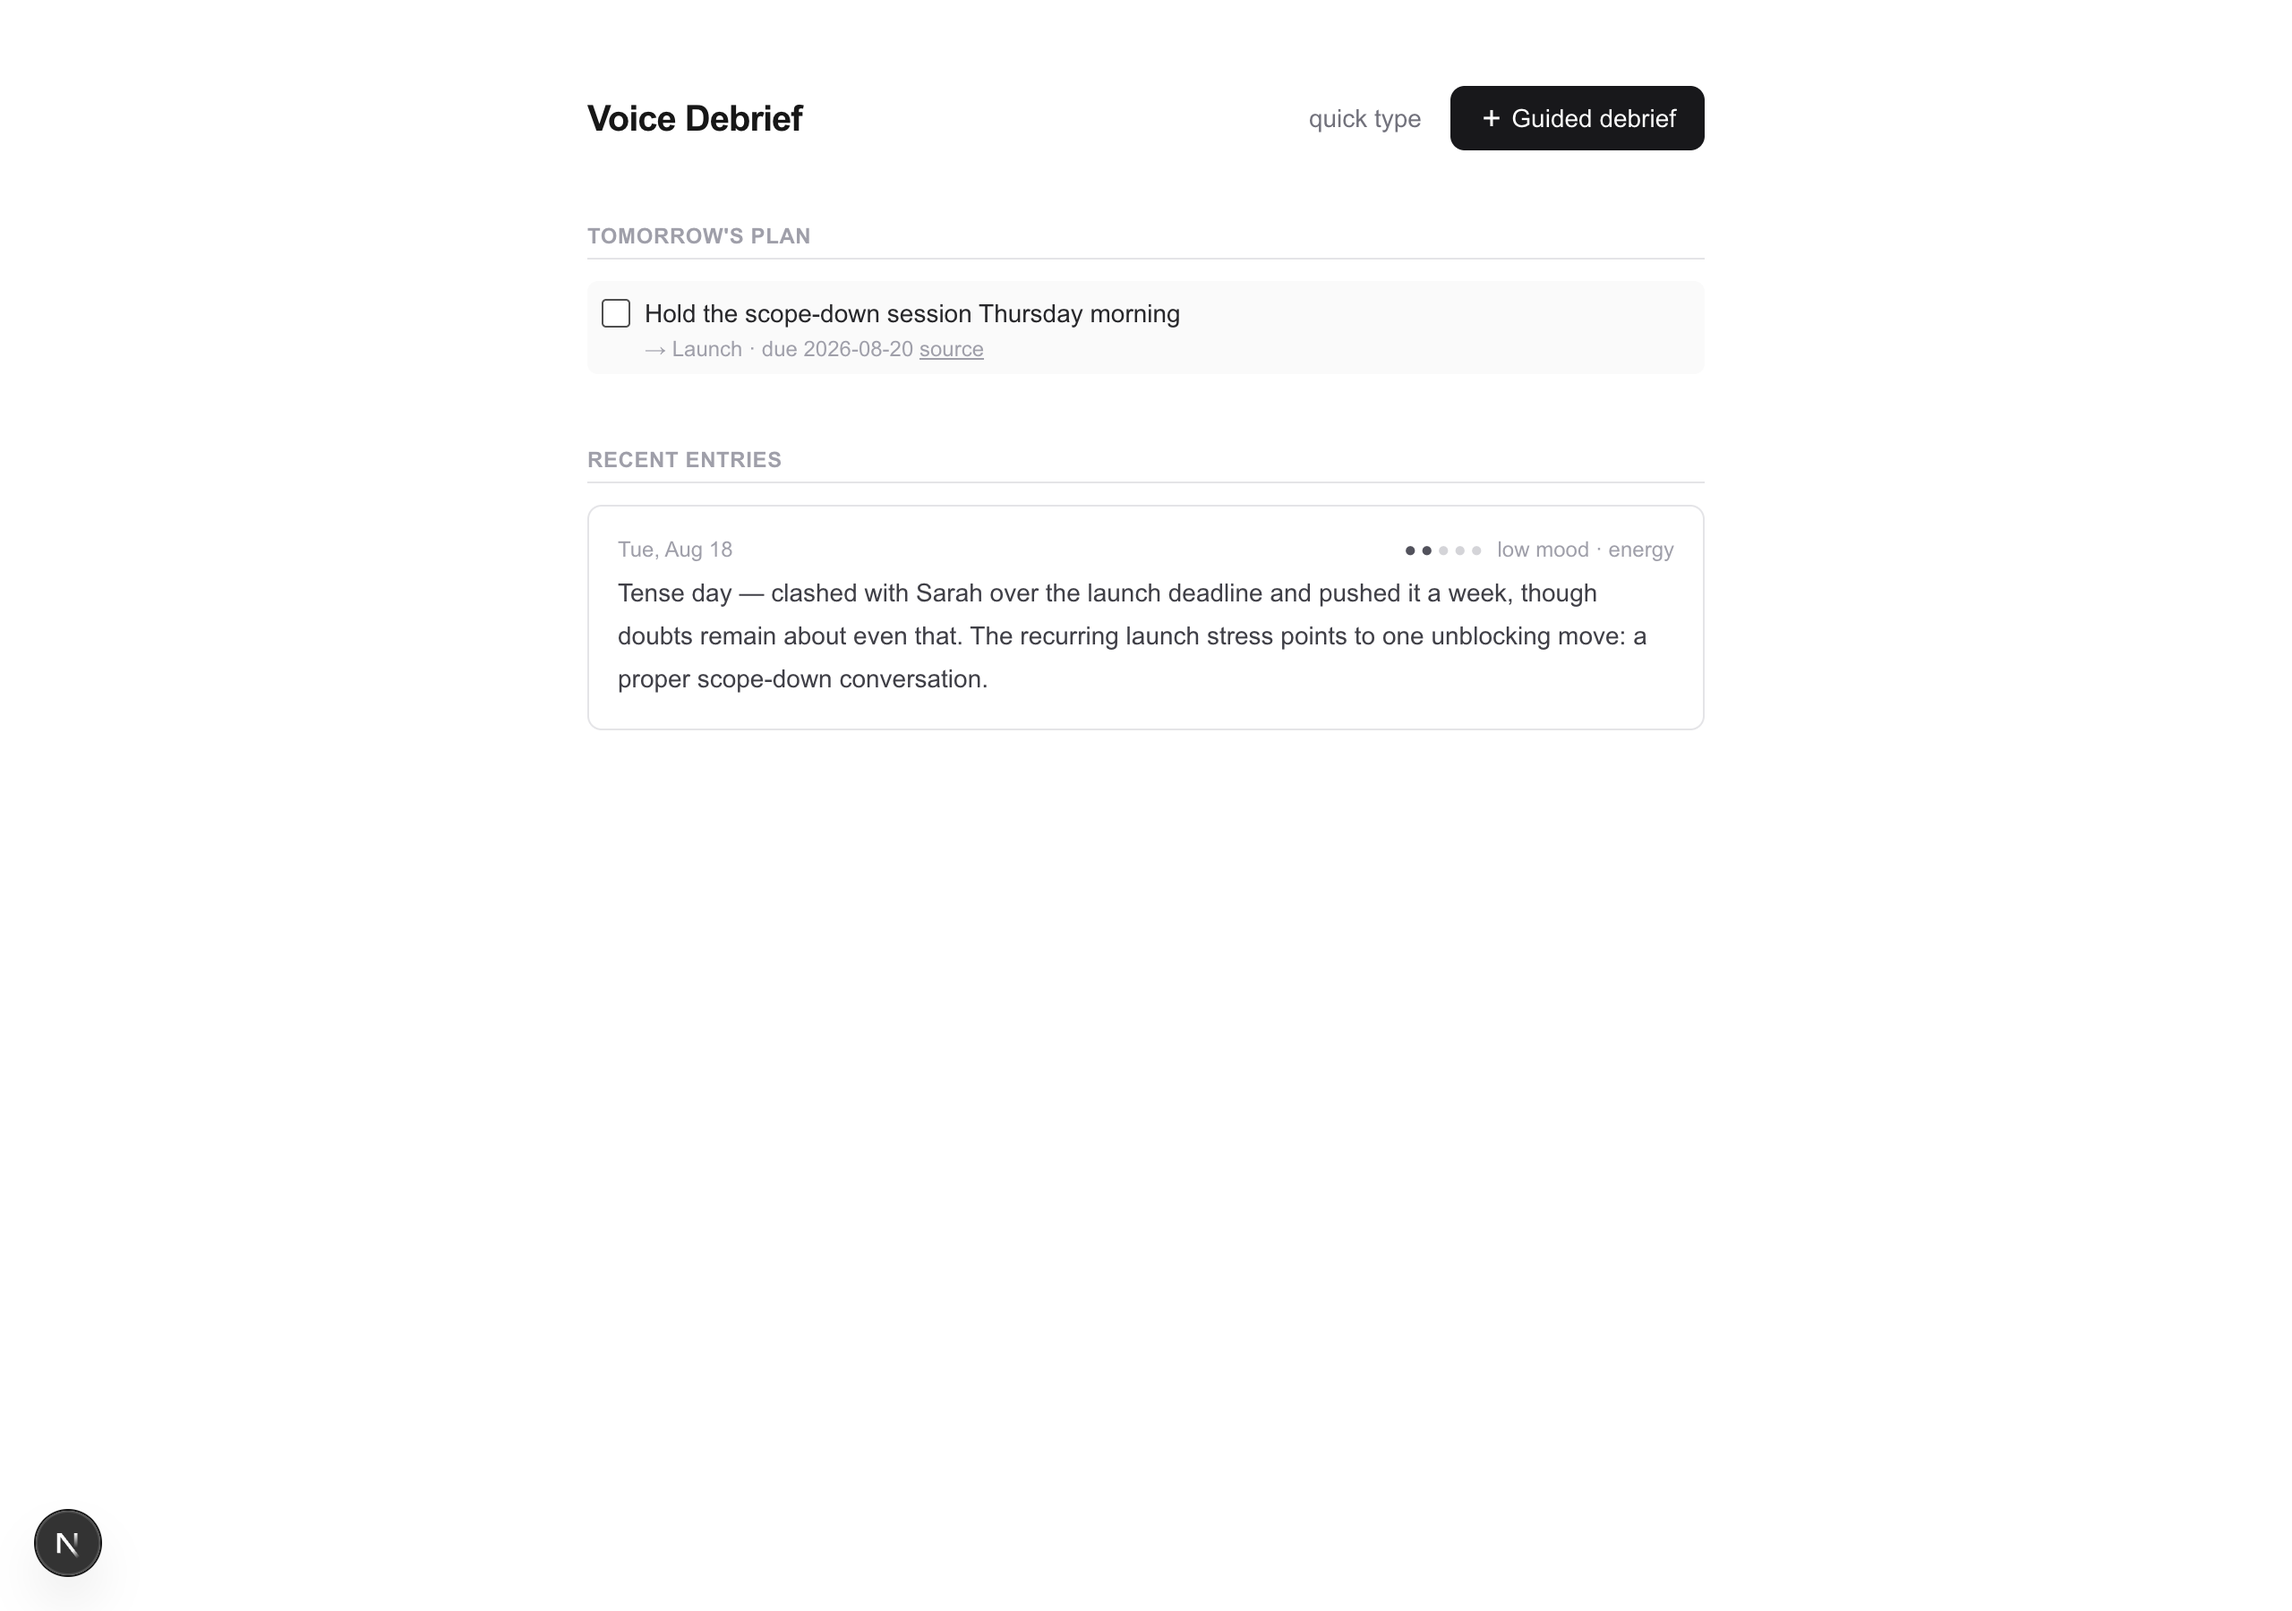
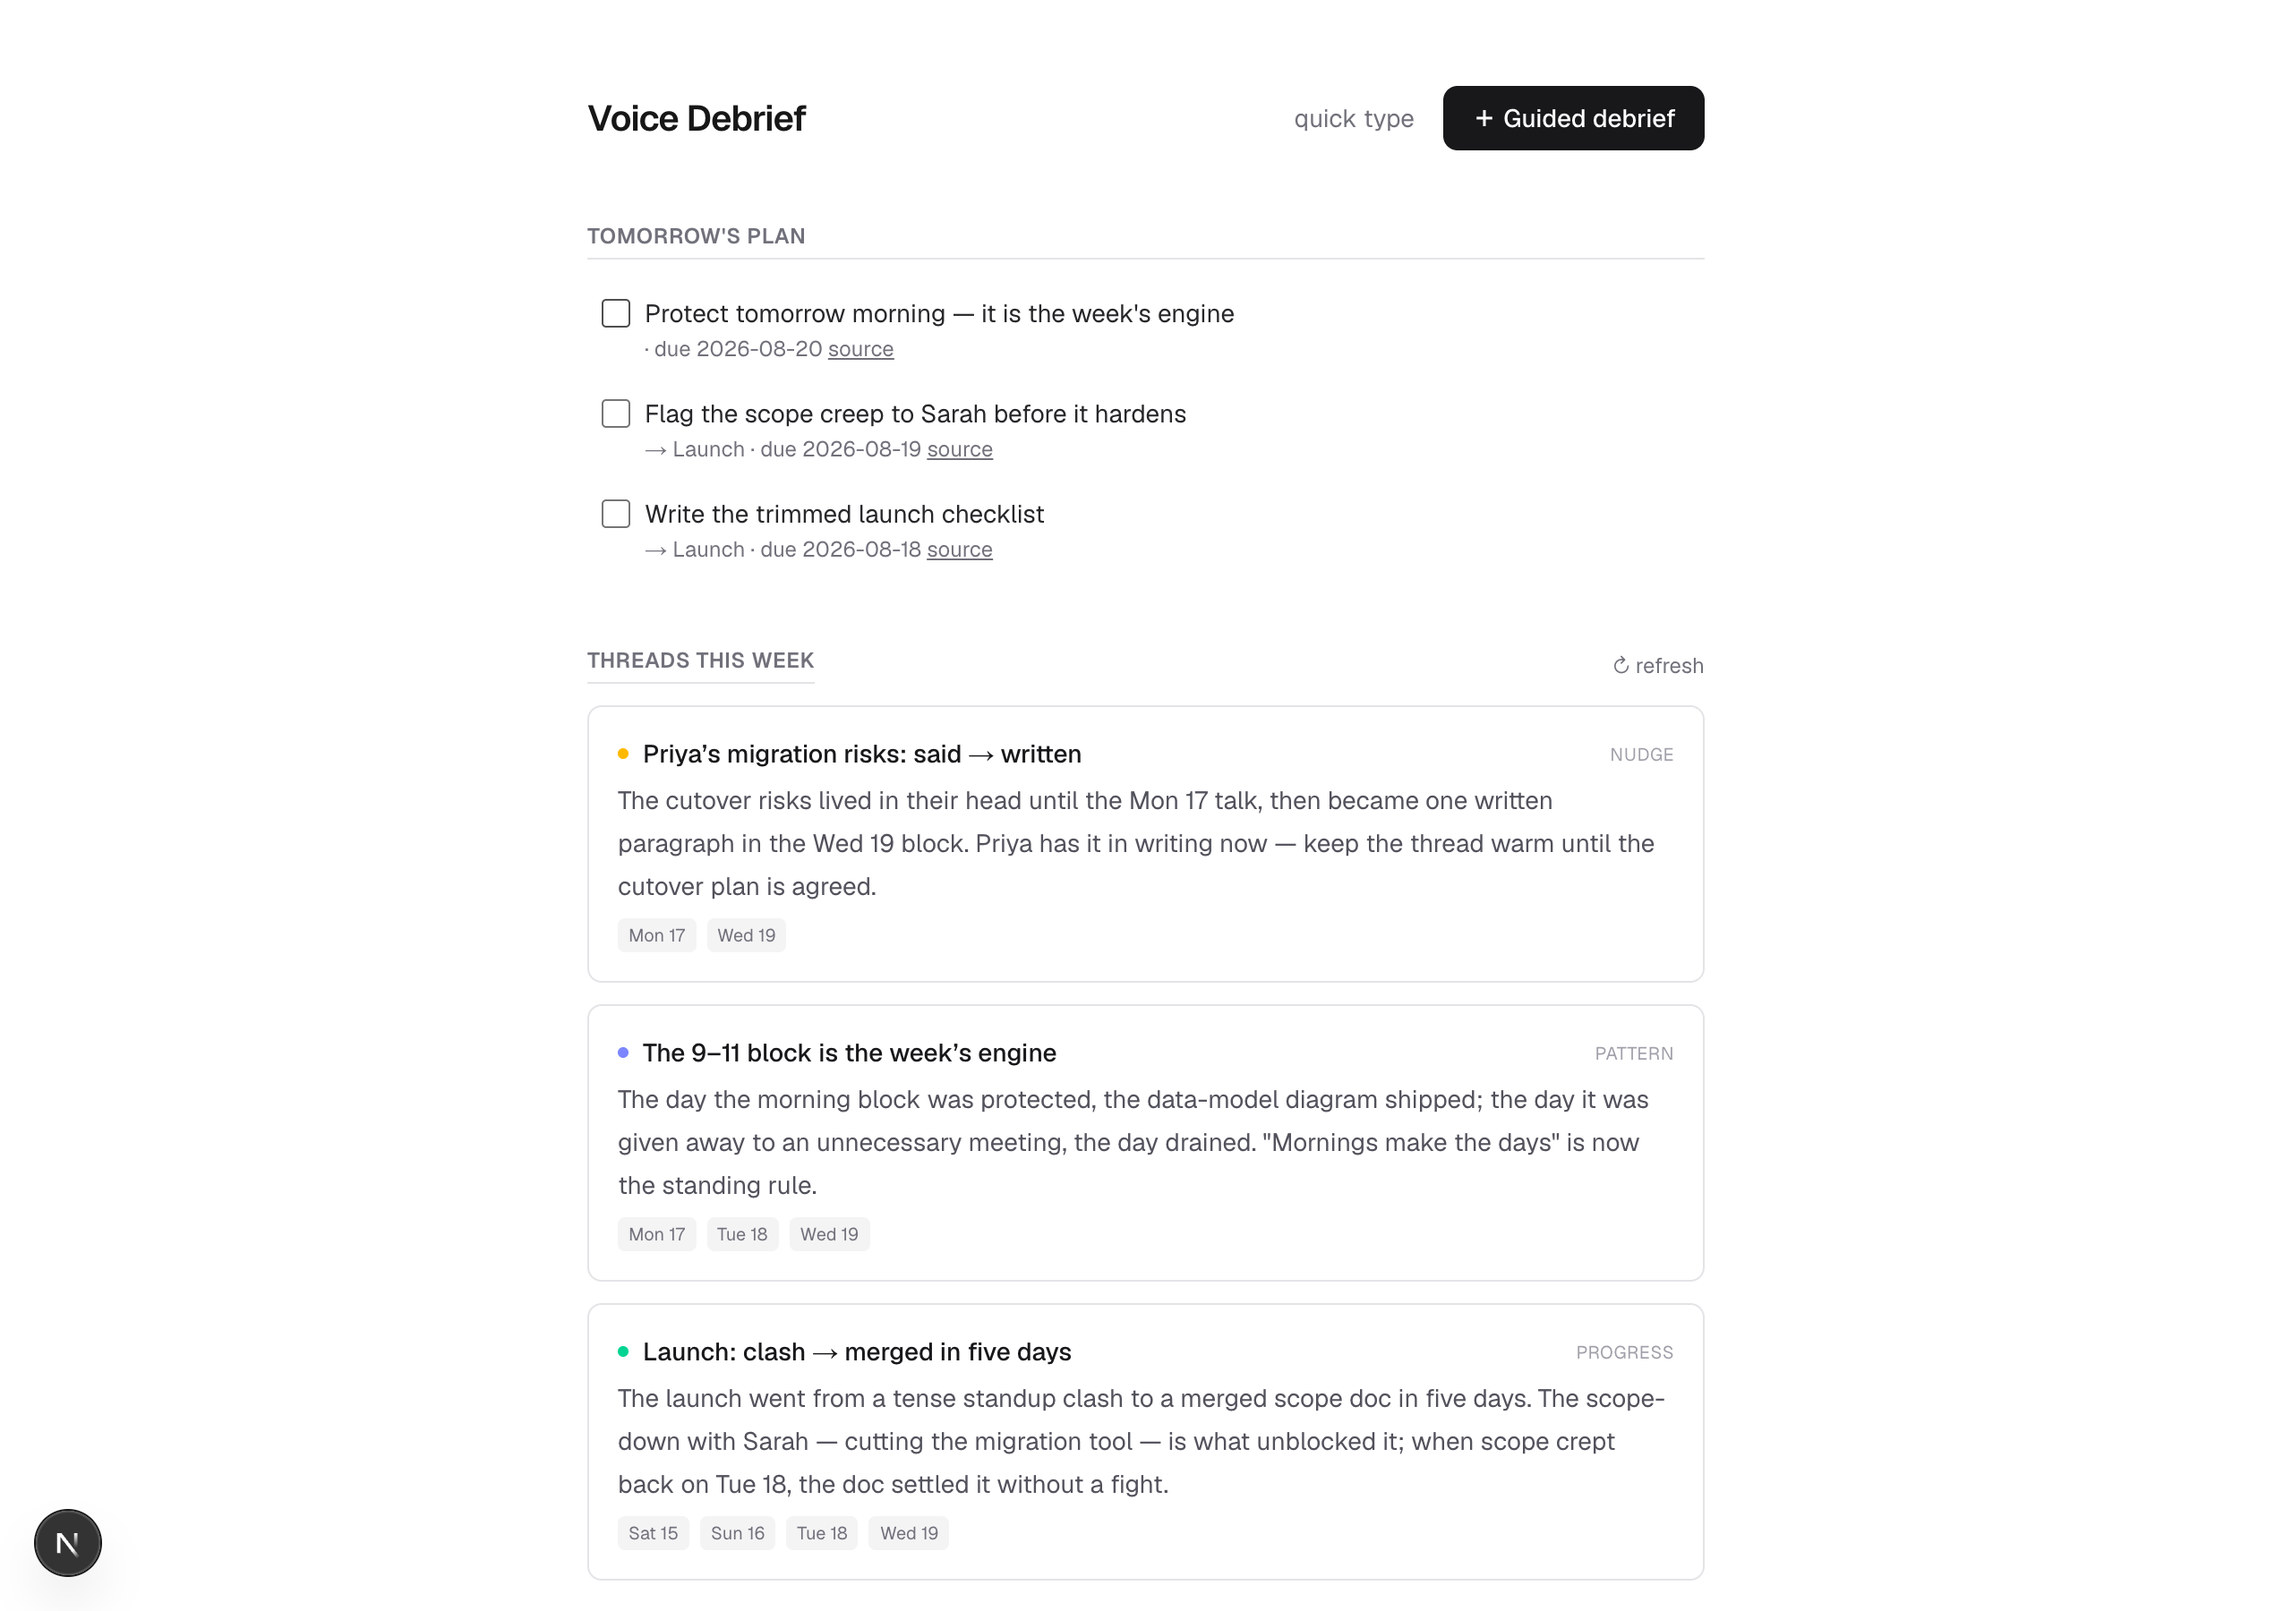
docs: showcase refresh — threads hero, demo week, voice; PROGRESS update
Screenshots re-captured against the new flow (demo week → threads panel →
doc → check-off → mic). The hero shot is now the lived-in Home: threads
connecting the week, plan, entries with mood color. README status and
demo-mode sections updated (dictation live; demo week). PROGRESS marks
the refinement package: voice v1, wait UX, onboarding, threads v1 (spec
slice 4) done; mobile pass, interview persistence, archive/search, habit
loop still open in Phase 2.

diff --git a/PROGRESS.md b/PROGRESS.md
@@ -2,7 +2,7 @@
 
 A daily debrief tool, going from single-user v1 to **multi-user SaaS**. Type your day (voice lands in Phase 2) → LLM extracts structured rows → an editable doc → browse entries + check off tomorrow's plan. Design reference: `~/Documents/job/CV/voice-debrief-design-spec.md`.
 
-**Status (2026-08-18): Phase 0 (stabilize) COMPLETE — same day, 9 commits, 26 unit tests + 3 DB-integration suites green in CI. Next: Phase 1 (auth + tenancy).** Earlier 2026-08-18: vigorous 3-track review (correctness · security · product/market); target decided: **multi-user SaaS**. Review verdict: the extraction pipeline and data model are production-grade; everything around them was prototype-grade — (a) zero authorization, (b) silent failure handling, (c) the differentiator wasn't reachable. Phase 0 fixed (b) and the non-auth parts of (a); auth/tenancy is Phase 1.
+**Status (2026-08-19): Phase 0 (stabilize) ✅ + demo-refinement package ✅ — voice dictation, demo week, staged wait UX + visual pass, and Threads (the cross-day insight pass, spec slice 4 v1). 40 unit tests + 5 DB suites green. Live demo: https://voice-debrief.vercel.app (rate-limited, keyless-safe). Next: Phase 1 (auth + tenancy).** Earlier: 2026-08-18 vigorous 3-track review (correctness · security · product/market); target decided: **multi-user SaaS**. Review verdict: pipeline production-grade, shell prototype-grade — Phase 0 fixed the correctness/security-hygiene layer; the refinement package made the differentiator *visible* (the review's top product gaps).
 
 ## What works (verified live 2026-07-16; code re-read in review 2026-08-18)
 - **Write** (`/new`): transcript → dual-model LLM (strong extraction ‖ fast overview) → editable doc at `/session/[id]`.
@@ -73,15 +73,17 @@ Order rationale: **correctness first** (every later phase builds on these functi
 
 **Done when:** two accounts cannot see or mutate each other's data; anonymous curl is gated on every action and page; any user can export and delete all their data.
 
-### Phase 2 — The market slice (product) · ~2–3 wks
-1. **Voice input — the gate to charging**: MediaRecorder capture → batch STT (Whisper-class API) → feed the existing `runDebrief` transcript. UI + one API family; the pipeline needs no changes.
-2. **Extraction wait UX**: staged progress ("reading → extracting → writing your doc"), elapsed timer, cancel, and "safe to leave — it'll appear on Home" (the job already survives navigation; the user just isn't told).
-3. **Mobile pass**: always-visible edit/move/delete on touch (kill the hover-only `opacity-0 group-hover:opacity-100` controls), `group-focus-within` reveal for keyboard, auto-growing textarea in the interview (currently a one-line `<input>`), light-mode contrast to WCAG AA (zinc-500/600 for small text).
-4. **Onboarding**: empty-state hero explaining the pipeline (debrief → structured doc → tomorrow's plan) + one-tap sample debrief (samples exist but are only surfaced inside `/new`).
-5. **Interview resilience**: persist the chat to sessionStorage per turn — a refresh currently destroys the whole conversation.
-6. **Archive + search**: `/archive` with pagination + tag/date filter + Postgres full-text search (`tsvector`) — before embeddings/pgvector. Home currently caps at 20 cards with no way back in time.
-7. **Habit loop**: streak on Home (the data is already in `sessions`), daily reminder; weekly rollup later.
-8. **Polish**: `error.tsx`/`not-found.tsx`; `aria-live` on errors and the pending bubble; PWA manifest (add-to-homescreen for a daily-habit app); actually apply the Geist font (loaded but `globals.css` hardcodes Arial); undo fidelity (restore tag chips, `due_on`, `status` — not just text).
+### Phase 2 — The market slice (product) · partially done 2026-08-19
+1. **Voice input — ✅ v1 (browser dictation)**: Web Speech API mic on `/new` + interview (free, no backend, Chrome/Edge; hides where unsupported). Remaining for v2: server-side STT (Whisper-class) so Safari/Firefox and audio files work.
+2. **Extraction wait UX — ✅**: staged live progress + elapsed timer + "safe to leave" promise.
+3. **Mobile pass — still open**: touch-visible edit controls, auto-growing interview textarea. (Contrast + Geist + mood color + check-off motion ✅ 2026-08-19.)
+4. **Onboarding — ✅**: empty-state CTA + one-click **demo week** (5 backdated days, one arc, baked threads) + single samples.
+5. **Interview resilience — still open**: sessionStorage persistence per turn.
+6. **Archive + search — still open**: `/archive`, pagination, tag/date filter, PG FTS.
+7. **Habit loop — still open**: streak + reminders. **Cross-day insights — ✅ v1 as Threads** (see below).
+8. **Polish — partial**: aria-live ✅, Geist ✅, `error.tsx`/PWA manifest still open; undo fidelity still text-only.
+
+**Threads (2026-08-19, spec slice 4 v1):** strong model reads the newest ~6 sessions → 2–4 cross-day threads (pattern/progress/nudge, date-grounded) → `insights` table (latest-snapshot) → "Threads this week" panel on Home + explicit refresh; regenerates in the background (`after()`) once ≥3 sessions exist. Demo week ships baked threads for the keyless payoff.
 
 **Done when:** a new user on a phone can voice-journal, survive the wait, find an old entry, and come back on day two.
 

diff --git a/README.md b/README.md
@@ -8,19 +8,21 @@
 > lets you correct anything — so a daily debrief compounds into a personal data
 > layer you can search and act on.
 
-**Status:** v1 is usable daily — text or a guided AI interview in → structured
-data out → an editable document → a next-steps plan. Real-time voice/STT is the
-next milestone.
+**Status:** usable daily, demo-ready — talk (live dictation) or type your day →
+structured, editable data → tomorrow's plan → **threads that connect your days**
+(the cross-day insight pass). Multi-user/auth is the next milestone.
 
 ---
 
 ## Screenshots
 
-**A day becomes a structured, editable doc — and tomorrow's plan.**
+**The journal that compounds: threads connect your days, the plan keeps you moving.**
 
-![The structured, editable doc — every row fixable, movable, deletable](docs/screenshots/02-session-doc.png)
+![Home with the week's threads, tomorrow's plan, and recent entries](docs/screenshots/02-home-lived-in.png)
 
-![Home: tomorrow's plan with check-off, plus recent entries](docs/screenshots/04-home-plan.png)
+![A day becomes a structured, editable doc — every row fixable, movable, deletable](docs/screenshots/03-session-doc.png)
+
+![Dictate instead of type — the browser transcribes live](docs/screenshots/06-new.png)
 
 ![The guided interview — small-model driver, deterministic checklist of what's covered](docs/screenshots/07-interview.png)
 
@@ -101,11 +103,13 @@ CI runs lint + typecheck + test + build on every push.
 
 ## Demo mode (no API key needed)
 
-Loading a sample stores a **pre-baked extraction through the same transactional
-pipeline** as a live run — real rows, tags, goals, `user_state` — with zero LLM
-calls: instant, and works with no `LLM_API_KEY` configured. Due dates are built
-relative to today, so samples always land in the plan window. Tests pin every
-pre-baked payload to the real extraction schema, so schema drift breaks CI
+**Load a demo week** seeds five backdated days of one story arc — three threads
+weaving through it (a launch clash that resolves, a deep-work habit forming, a
+colleague's migration risks finally written up) — through the same transactional
+pipeline as live runs, with zero LLM calls: instant, and works with no
+`LLM_API_KEY` configured. The cross-day threads are baked to match the arc, so
+the compounding payoff is visible keyless. (Single samples work too.) Tests pin
+every pre-baked payload and thread to the real schemas, so drift breaks CI
 instead of the demo.
 
 To regenerate the screenshots against a throwaway DB (your real journal is

diff --git a/AGENTS.md b/AGENTS.md
@@ -1,5 +1,9 @@
 <!-- BEGIN:nextjs-agent-rules -->
+
 # This is NOT the Next.js you know
 
-This version has breaking changes — APIs, conventions, and file structure may all differ from your training data. Read the relevant guide in `node_modules/next/dist/docs/` before writing any code. Heed deprecation notices.
+This version has breaking changes — APIs, conventions, and file structure may all differ from your training data. Read the relevant guide in `node_modules/next/dist/docs/` (resolved from this file's directory; in monorepos the `next` package may not be visible from the repo root) before writing any code. Heed deprecation notices.
+
+This block is written and re-added by `next dev` — verify at `node_modules/next/dist/server/lib/generate-agent-files.js`. Removing it from a diff only re-creates the uncommitted change; committing it with your work keeps the tree clean.
+
 <!-- END:nextjs-agent-rules -->
